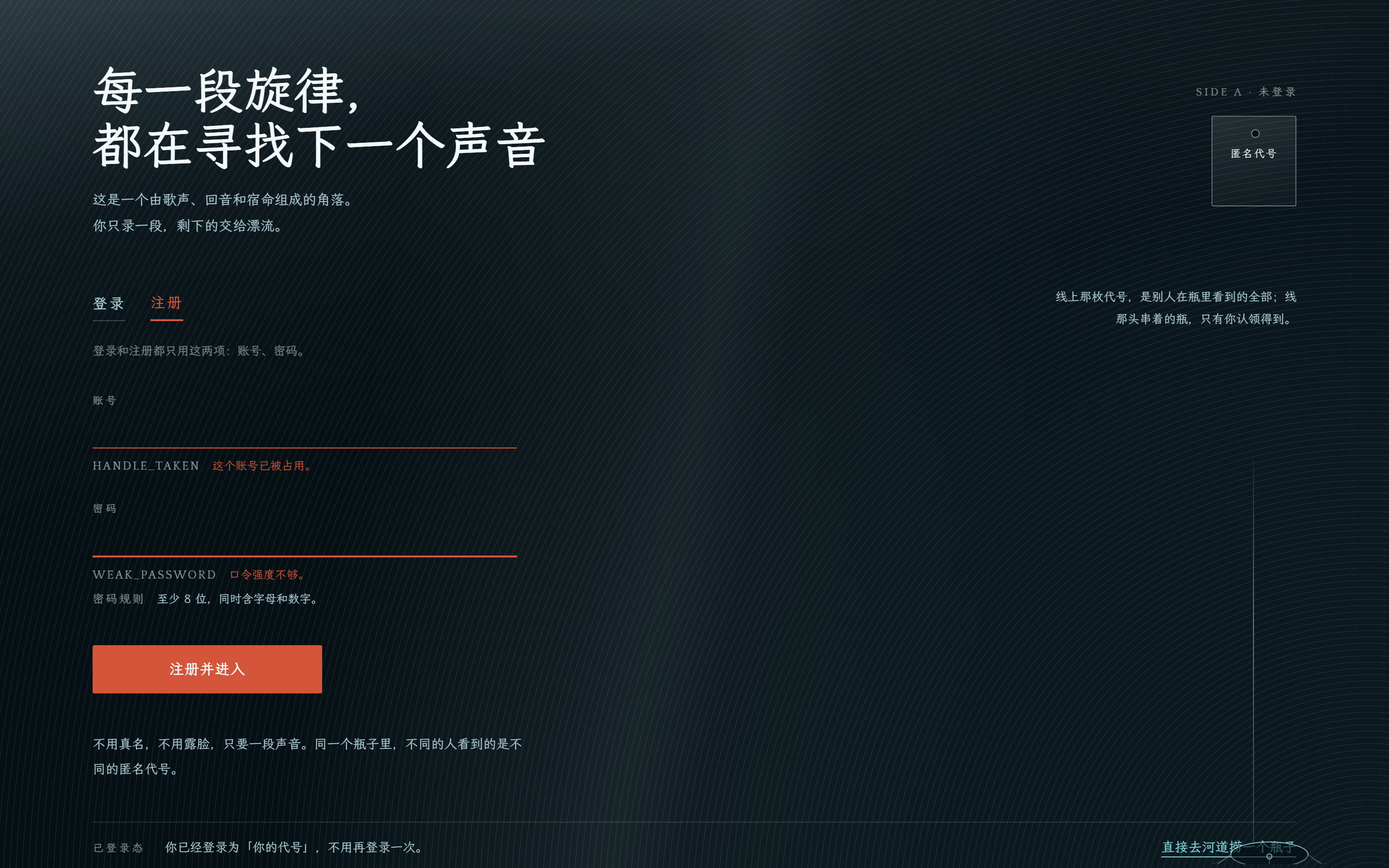
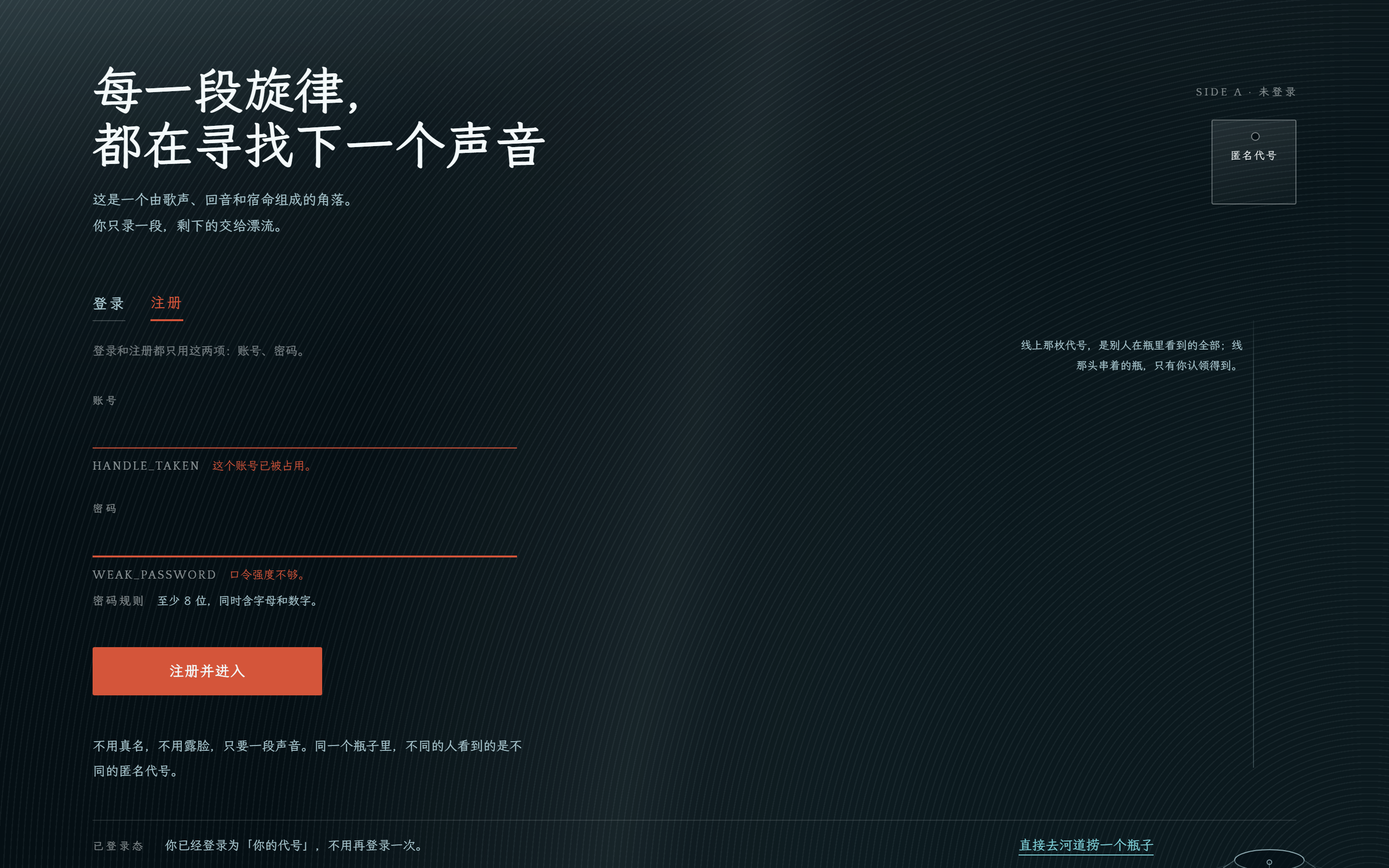
docs(design-explore): 登录页打回改造交付 —— 砍掉一半元素，只留『认领线』一个装置（全站首次 --final 全绿）
按用户『太繁杂，简洁/高级/艺术一些』打回。作者删掉的东西（我逐项 grep 核对，均为 0 次命中）：横贯水线 + 水下倒影/水波/气泡/折光/涟漪、与瓶子详情同族的横躺瓶、整张唱片盘+三道外环+标签盘+封套+指孔+抽出盘片（唱片权重降为 0）、表单三列注记（字段名与说明曾被拉开 300px，是『繁杂』主因）、装饰性涟漪、以及一个自造的错误色 #e2604a（违反 §1.3 不许新色相）。

保留并做成的唯一装置＝**认领线**：右上『匿名代号』牌 → 一根线垂到底 → 线那头只露一角瓶口（右下），线上写着『线上那枚代号，是别人在瓶里看到的全部；线那头串着的瓶，只有你认领得到』—— 它把契约 §3 里那句只存在于小字里的匿名承诺变成了可看的结构。captain 看图确认：上一帧『瓶压住页脚链接』的碰撞已消失。

**门禁首次在收工版下全绿**：node _guard.mjs --final → 当前名单 11 个文件全部通过 · EXIT=0（--final 会强制 png 不旧于 html，排除并发噪声）。

作者自陈的最大弱点（captain 认可并记录）：该装置对比度低于契约下限 —— 认领线峰值约 3:1、瓶口暗部约 2:1（契约正文 4.5:1、WCAG 非文本图形 3:1），靠『形状可辨 + 一句图注』兜底；以及瓶口只露一角这件事单点依赖那行图注。

diff --git a/docs/ui-review/design-explore/p-login-record.html b/docs/ui-review/design-explore/p-login-record.html
@@ -44,22 +44,22 @@
 
       /* 装置：一根认领线。一枚代号牌坠在线头上，线的另一头是只有你认领得到的那只瓶 ——
          瓶只被画到画面的角上，读到的是它在，而不是它长什么样。 */
-      .device { position:absolute; right:96px; top:120px; width:364px; height:758px; }
-      .tag { position:absolute; right:0; top:0; width:88px; height:94px; border-radius:2px;
+      .device { position:absolute; right:96px; top:124px; width:364px; height:698px; }
+      .tag { position:absolute; right:0; top:0; width:88px; height:88px; border-radius:2px;
         border:1px solid rgba(243,249,250,.34);
         background:linear-gradient(168deg, rgba(243,249,250,.11), rgba(243,249,250,.025)); }
-      .tag::before { content:''; position:absolute; left:50%; top:13px; width:7px; height:7px; margin-left:-3.5px;
+      .tag::before { content:''; position:absolute; left:50%; top:12px; width:7px; height:7px; margin-left:-3.5px;
         border:1px solid rgba(243,249,250,.5); border-radius:50%; background:var(--ink); }
-      .tag b { position:absolute; left:50%; top:31px; width:88px; margin-left:-44px;
-        font-size:11px; font-weight:400; line-height:1.5; letter-spacing:.12em; text-align:center;
+      .tag b { position:absolute; left:50%; top:30px; width:88px; margin-left:-44px;
+        font-size:11px; font-weight:400; line-height:1.45; letter-spacing:.12em; text-align:center;
         color:rgba(243,249,250,.92); text-shadow:0 1px 0 rgba(5,15,20,.6); }
-      .thread { position:absolute; right:44px; top:356px; width:1px; height:400px;
-        background:linear-gradient(180deg, rgba(203,238,246,.05), rgba(203,238,246,.46) 42%, rgba(203,238,246,.16)); }
-      .devnote { position:absolute; right:0; top:176px; width:250px; text-align:right;
-        font-size:12.5px; line-height:1.85; color:var(--muted); }
+      .thread { position:absolute; right:44px; top:208px; width:1px; height:464px;
+        background:linear-gradient(180deg, rgba(203,238,246,.06), rgba(203,238,246,.44) 34%, rgba(203,238,246,.22)); }
+      .devnote { position:absolute; right:56px; top:224px; width:238px; text-align:right;
+        font-size:11.5px; line-height:1.8; color:var(--muted); }
 
       /* 线的另一头：只露一角 —— 玻璃口沿（近唇亮、远唇暗）、瓶肩、栓在口里的线头 */
-      .mouth { position:absolute; left:1184px; top:866px; }
+      .mouth { position:absolute; left:1184px; top:872px; }
 
       .form { display:flex; flex-direction:column; margin-top:56px; }
       .modes { display:flex; gap:26px; }
@@ -87,8 +87,8 @@
         color:var(--paper); background:var(--coral); border:0; border-radius:2px; cursor:pointer; }
       .oath { margin-top:40px; width:452px; font-size:13.5px; line-height:1.9; color:var(--muted); }
 
-      .foot { margin-top:auto; padding-bottom:10px; border-top:1px solid var(--line); }
-      .foot .row { display:flex; align-items:baseline; gap:20px; padding-top:14px; }
+      .foot { margin-top:auto; padding-bottom:12px; border-top:1px solid var(--line); }
+      .foot .row { max-width:1100px; display:flex; align-items:baseline; gap:20px; padding-top:14px; }
       .foot .said { font-size:13px; color:var(--muted); }
       .go { margin-left:auto; font-size:14px; color:var(--glass);
         text-decoration:underline; text-underline-offset:5px; }
@@ -142,18 +142,18 @@
 
       <svg class="mouth" width="196" height="28" viewBox="0 0 196 28" fill="none" aria-hidden="true">
         <!-- 瓶肩：口沿以下只留两侧玻璃壁，中间不画 —— 全页没有一条横贯的线 -->
-        <path d="M96 17 L84 28" stroke="#cbeef6" stroke-opacity=".32" />
-        <path d="M168 17 L180 28" stroke="#cbeef6" stroke-opacity=".24" />
-        <path d="M92 22 L78 28" stroke="#cbeef6" stroke-opacity=".09" />
-        <path d="M172 22 L186 28" stroke="#cbeef6" stroke-opacity=".07" />
+        <path d="M96 20 L84 28" stroke="#cbeef6" stroke-opacity=".32" />
+        <path d="M168 20 L180 28" stroke="#cbeef6" stroke-opacity=".24" />
+        <path d="M92 24 L78 28" stroke="#cbeef6" stroke-opacity=".09" />
+        <path d="M172 24 L186 28" stroke="#cbeef6" stroke-opacity=".07" />
         <!-- 玻璃口：暗的开口；近唇亮、远唇暗，只露这半边 -->
-        <ellipse cx="132" cy="17" rx="36" ry="11" fill="rgba(3,14,20,.6)" />
-        <ellipse cx="132" cy="17" rx="36" ry="11" stroke="#cbeef6" stroke-opacity=".2" />
-        <path d="M96 17 A36 11 0 0 1 168 17" stroke="#cbeef6" stroke-opacity=".6" />
-        <path d="M168 17 A36 11 0 0 1 96 17" stroke="#cbeef6" stroke-opacity=".3" />
+        <ellipse cx="132" cy="20" rx="36" ry="11" fill="rgba(3,14,20,.6)" />
+        <ellipse cx="132" cy="20" rx="36" ry="11" stroke="#cbeef6" stroke-opacity=".2" />
+        <path d="M96 20 A36 11 0 0 1 168 20" stroke="#cbeef6" stroke-opacity=".6" />
+        <path d="M168 20 A36 11 0 0 1 96 20" stroke="#cbeef6" stroke-opacity=".3" />
         <!-- 口里的线头：认领线终止在这只瓶里 -->
-        <path d="M132 19 L132 28" stroke="#cbeef6" stroke-opacity=".26" />
-        <circle cx="132" cy="19" r="2.4" stroke="#cbeef6" stroke-opacity=".64" />
+        <path d="M132 22 L132 28" stroke="#cbeef6" stroke-opacity=".26" />
+        <circle cx="132" cy="22" r="2.4" stroke="#cbeef6" stroke-opacity=".64" />
       </svg>
 
 
